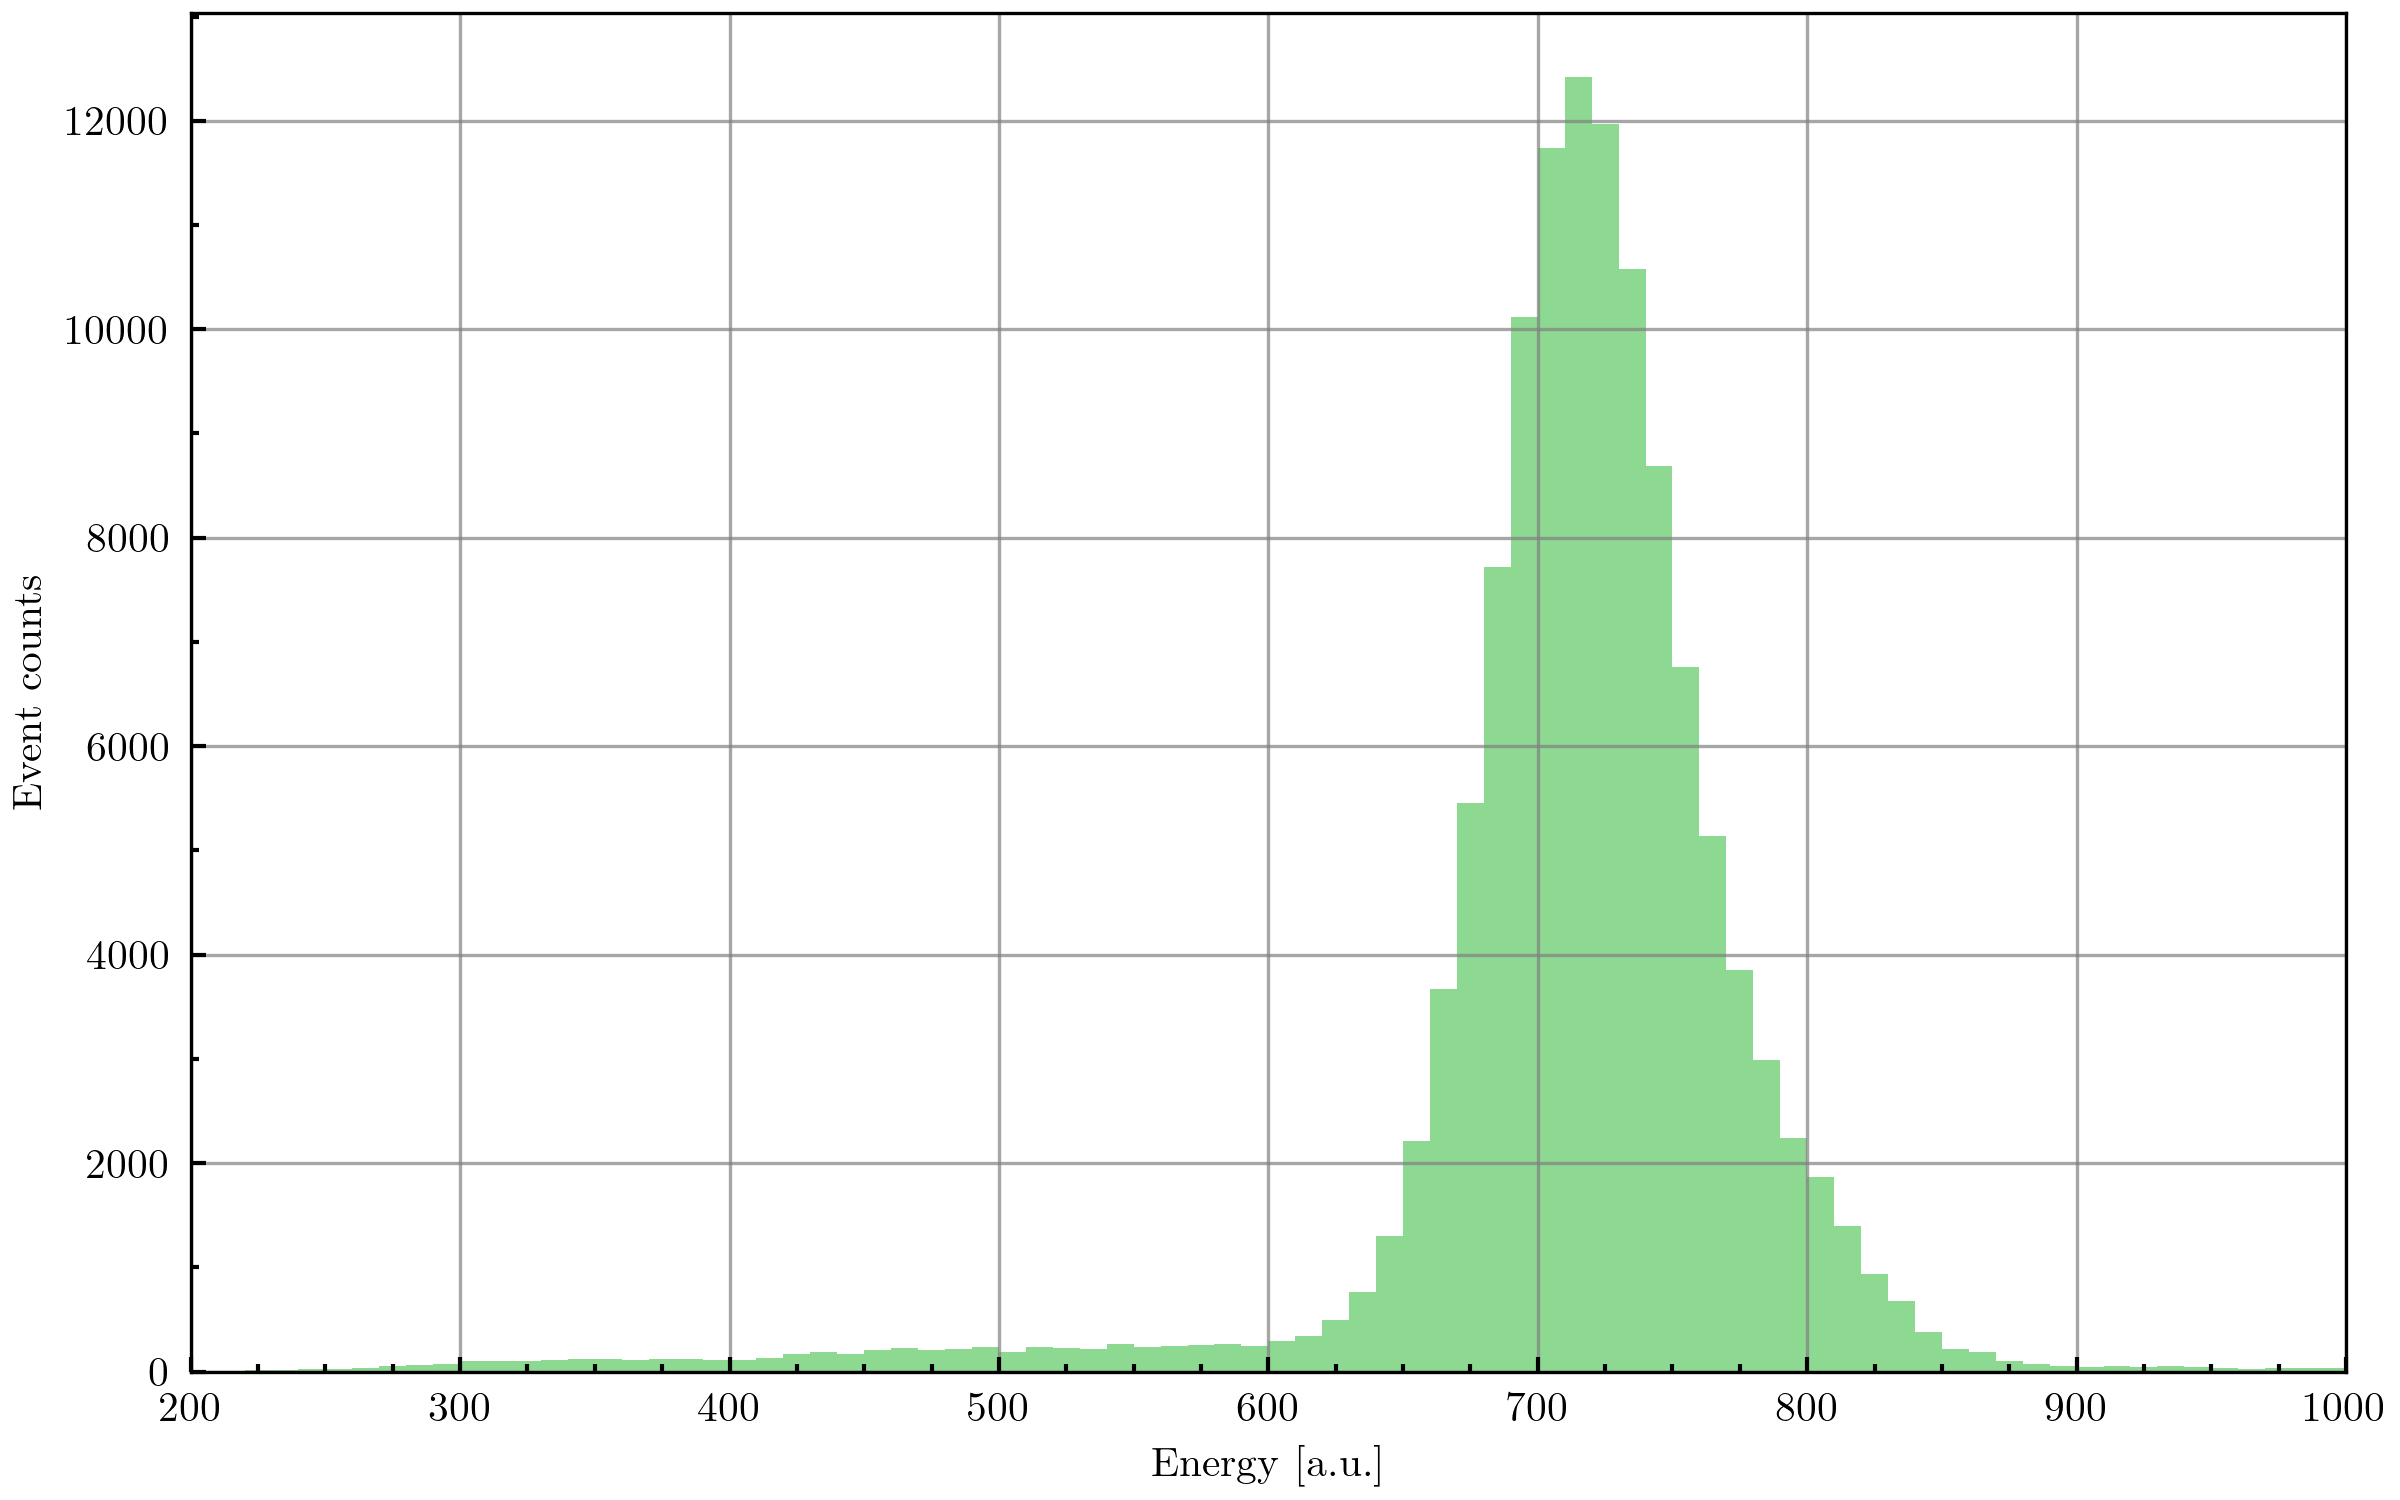
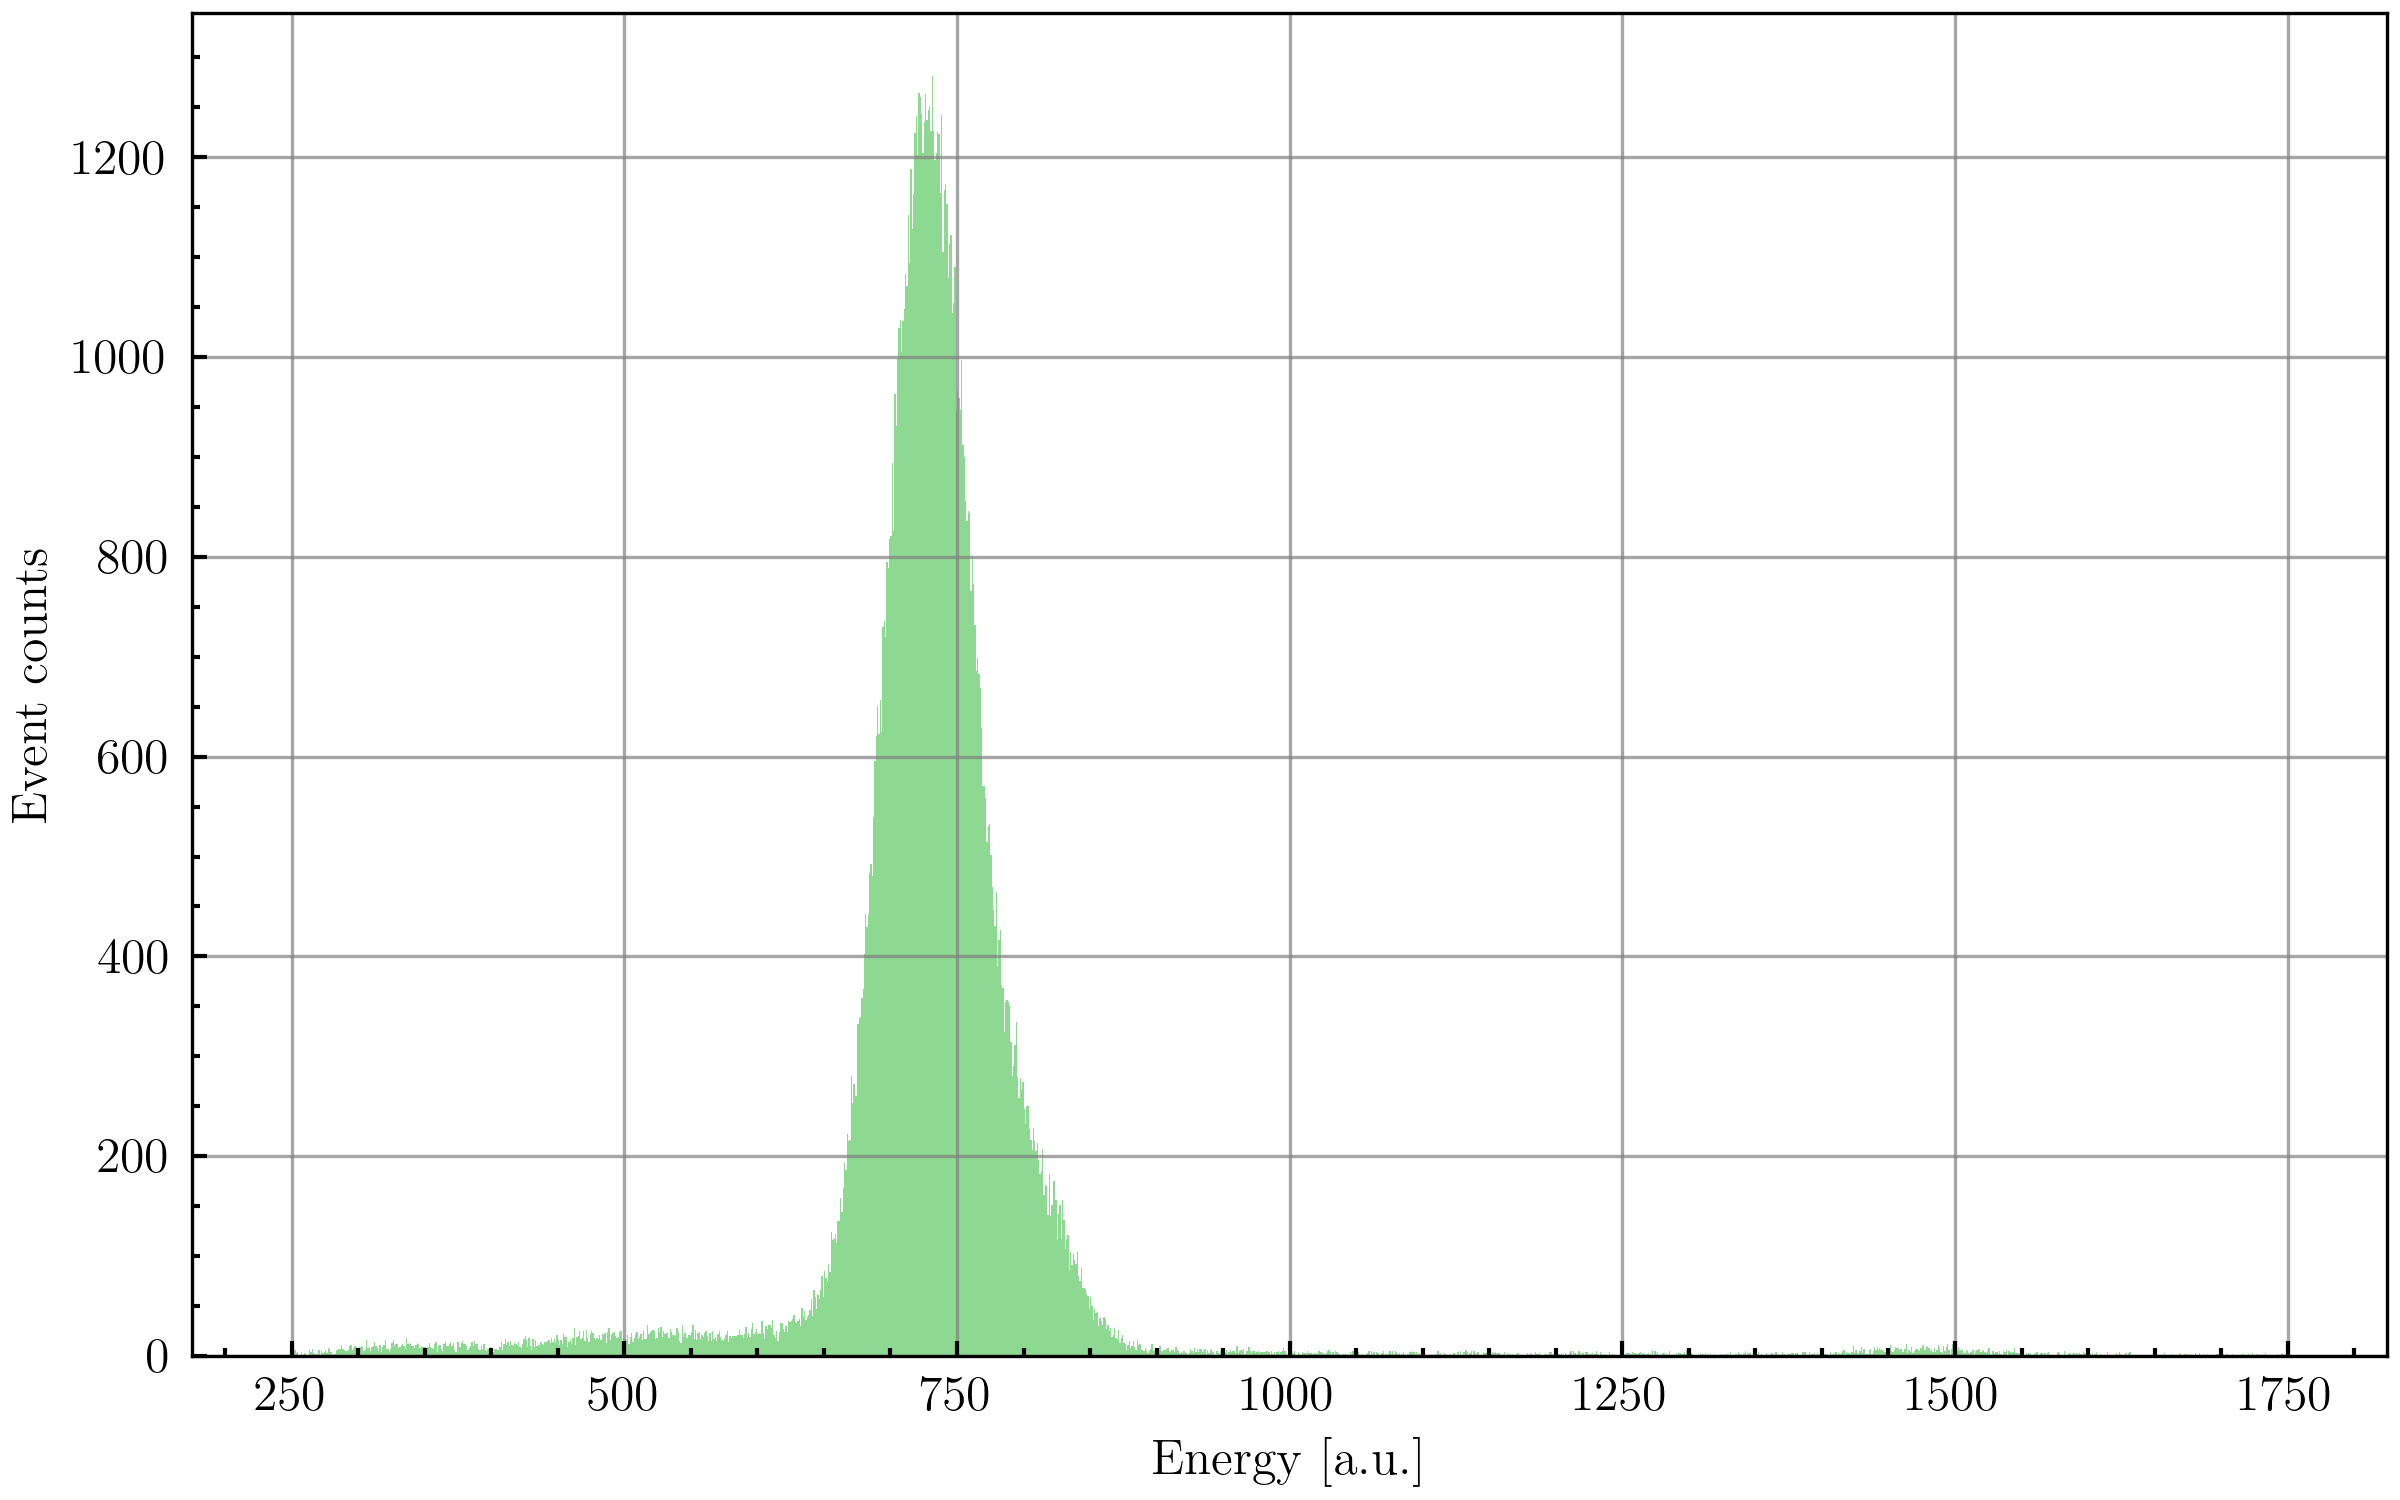
Polezero extention: histograms

diff --git a/Scripts/poleZero.py b/Scripts/poleZero.py
@@ -5,6 +5,9 @@ from tqdm import tqdm
 import numpy as np
 from scipy.signal import lfilter
 
+from lmfit.models import GaussianModel
+from scipy.stats import linregress
+
 import matplotlib.pyplot as plt
 from matplotlib.colors import Normalize
 from matplotlib.ticker import MultipleLocator
@@ -34,8 +37,8 @@ alpha = np.exp(-1 / (tau * fs))
 a_coeff = [1,-1] # denominator coefficient
 b_coeff = [1, -alpha] # numerator coefficient
 # -------------------------------------------------------------------------------------------------------
-"""
-data = readFile(files[0])  #  Take the zeroth channel
+
+data = readFile(sorted_files[0])  #  Take the zeroth channel
 waveforms = data['wave']
 offset = np.mean(waveforms[:, :500], axis=1)
 baseline_corrected_waveforms = waveforms - offset[:, np.newaxis]
@@ -49,64 +52,127 @@ first_500_avg = np.mean(pole_zero_corrected_waveforms[:, :500], axis=1)
 
 energy = last_500_avg - first_500_avg
 
+mask = energy > 1000
+print(f'Counts above 1000: {np.sum(mask)}')
+
 # =======================================================================================================
 # Plotting energy differences histogram: 1 Channel
 # =======================================================================================================
 
+plt.rcParams.update({'font.size': 12})
 fig, ax = plt.subplots(figsize=(8,5), constrained_layout=True)
-
-ax.hist(energy, bins=100, range=(0, 1000), color=plt.get_cmap('viridis')(0.75), alpha=0.70)
+ax.hist(energy, bins=1500, range=(250, 1750), color=plt.get_cmap('viridis')(0.75), alpha=0.70)
 ax.set_xlabel('Energy [a.u.]')
 ax.set_ylabel('Event counts')
 ax.grid(which='major', color='grey', alpha=0.7)
 
-ax.set_xlim(200, 1000)
+#ax.set_xlim(250, 1750)
+
 ax.tick_params(direction='in', which='both', width=1, pad=5)
-ax.xaxis.set_major_locator(MultipleLocator(100))
-ax.xaxis.set_minor_locator(MultipleLocator(25))
-ax.yaxis.set_major_locator(MultipleLocator(2000))
-ax.yaxis.set_minor_locator(MultipleLocator(1000))
+ax.xaxis.set_major_locator(MultipleLocator(250))
+ax.xaxis.set_minor_locator(MultipleLocator(50))
+ax.yaxis.set_major_locator(MultipleLocator(200))
+ax.yaxis.set_minor_locator(MultipleLocator(50))
 
 fig.savefig('Plots/Energy_distribution_uncal.png', dpi=300)
 plt.show()
-"""
+
 # =======================================================================================================
-# Plotting energy differences histogram: 1 Channel
+# Plotting energy differences histogram: All Channels
 # =======================================================================================================
 
+plt.rcParams.update({'font.size': 12})
 fig, ax = plt.subplots(figsize=(8,5), constrained_layout=True)
 
 ax.set_xlabel('Energy [a.u.]')
 ax.set_ylabel('Event counts')
 ax.grid(which='major', color='grey', alpha=0.7)
 # -------------------------------------------------------------------------------------------------------
-ax.set_xlim(300, 1000)
-ax.tick_params(direction='in', which='both', width=1, pad=5)
-ax.xaxis.set_major_locator(MultipleLocator(100))
-ax.xaxis.set_minor_locator(MultipleLocator(25))
-ax.yaxis.set_major_locator(MultipleLocator(2000))
-ax.yaxis.set_minor_locator(MultipleLocator(1000))
+ax.set_xlim(1300, 1650)
+ax.tick_params(direction='in', which='both', top=True, right=True, width=1, pad=5)
+ax.xaxis.set_major_locator(MultipleLocator(50))
+ax.xaxis.set_minor_locator(MultipleLocator(10))
+ax.yaxis.set_major_locator(MultipleLocator(500))
+ax.yaxis.set_minor_locator(MultipleLocator(100))
 # -------------------------------------------------------------------------------------------------------
-num_colors = len(files)
+num_colors = len(sorted_files)
 viridis = cm.get_cmap('viridis', num_colors)
 norm = Normalize(vmin=0, vmax=num_colors - 1)
 # -------------------------------------------------------------------------------------------------------
 
-for idx1, filename in enumerate(tqdm(files, desc='Plotting histograms', unit="%", unit_scale=True)):
-    data = readFile(files[idx1])
-    waveforms = data['wave']
-    offset = np.mean(waveforms[:, :500], axis=1)
-    baseline_corrected_waveforms = waveforms - offset[:, np.newaxis]
-
-    pole_zero_corrected_waveforms = np.zeros_like(baseline_corrected_waveforms)
-    for idx2, waveform in enumerate(baseline_corrected_waveforms):
-        pole_zero_corrected_waveforms[idx2] = lfilter(b_coeff, a_coeff, waveform)
-
-    last_500_avg = np.mean(pole_zero_corrected_waveforms[:, -500:], axis=1)
-    first_500_avg = np.mean(pole_zero_corrected_waveforms[:, :500], axis=1)
-    energy = last_500_avg - first_500_avg
+for idx1, filename in enumerate(tqdm(sorted_files, desc='Plotting histograms', unit="%", unit_scale=True)):
+    data = readFile(filename)
+    energy = data['energy']
     # ---------------------------------------------------------------------------------------------------
-    ax.hist(energy, bins=100, range=(0, 1000), color=viridis(norm(idx1)), alpha=0.70)
-    
-fig.savefig('Plots/E_distribution_uncal_mult.png', dpi=300)
+    ax.hist(energy, bins=350, range=(1300, 1650), color=viridis(norm(idx1)), alpha=0.70, label=f'Channel No. {idx1}')
+
+ax.legend(loc='upper left')    
+fig.savefig('Plots/E_distribution_mult.png', dpi=300)
+
+# =======================================================================================================
+# Fitting the data
+# =======================================================================================================
+
+plt.rcParams.update({'font.size': 12})
+fig, ax = plt.subplots(figsize=(8,5), constrained_layout=True)
+# -------------------------------------------------------------------------------------------------------
+num_colors = len(sorted_files)
+viridis = cm.get_cmap('viridis', num_colors)
+norm = Normalize(vmin=0, vmax=num_colors - 1)
+# -------------------------------------------------------------------------------------------------------
+data = readFile(sorted_files[0])
+energy = data['energy']
+
+gmodel_alpha = GaussianModel(prefix='alpha_')
+gmodel_beta = GaussianModel(prefix='beta_')
+# -------------------------------------------------------------------------------------------------------
+initial_guesses_alpha = {'alpha_center': 1475, 'alpha_amplitude': 3000, 'alpha_sigma': 20}
+counts_alpha, bin_edges_alpha, _ = ax.hist(energy, bins=200, range=(1325, 1525),
+                                           color=plt.get_cmap('inferno')(0.85), alpha=0.7, label=f'Channel No. 0')
+bin_centers_alpha = (bin_edges_alpha[:-1] + bin_edges_alpha[1:]) / 2
+result_alpha = gmodel_alpha.fit(counts_alpha, x=bin_centers_alpha, method='leastsq', **initial_guesses_alpha)
+# -------------------------------------------------------------------------------------------------------
+initial_guesses_beta = {'beta_center': 1550, 'beta_amplitude': 500, 'beta_sigma': 20}
+counts_beta, bin_edges_beta, _ = ax.hist(energy, bins=200, range=(1525, 1725),
+                                         color=plt.get_cmap('plasma')(0.85), alpha=0.7)
+bin_centers_beta = (bin_edges_beta[:-1] + bin_edges_beta[1:]) / 2
+result_beta = gmodel_beta.fit(counts_beta, x=bin_centers_beta, method='leastsq', **initial_guesses_beta)
+# -------------------------------------------------------------------------------------------------------
+alpha_center = result_alpha.params['alpha_center'].value
+alpha_amplitude = result_alpha.params['alpha_amplitude'].value
+beta_center = result_beta.params['beta_center'].value
+beta_amplitude = result_beta.params['beta_amplitude'].value
+mean_alpha_lsb = alpha_center
+mean_beta_lsb = beta_center
+# -------------------------------------------------------------------------------------------------------
+ax.plot(bin_centers_alpha, result_alpha.best_fit, linestyle='--', lw=1.5, label=r'Mn-$K_{\alpha}$ fit',
+        color=plt.get_cmap('plasma')(0.30))
+ax.plot(bin_centers_beta, result_beta.best_fit, linestyle='--', lw=1.5, label=r'Mn-$K_{\beta}$ fit',
+        color=plt.get_cmap('plasma')(0.60))
+ax.axvline(x=mean_alpha_lsb, label=fr'Mean energy $E_{{K_{{\alpha}}}}$ {mean_alpha_lsb:.2f} a.u.',
+           ls='dashdot', lw=1, color=plt.get_cmap('viridis')(0.15))
+ax.axvline(x=mean_beta_lsb, label=fr'Mean energy $E_{{K_{{\beta}}}}$ {mean_beta_lsb:.2f} a.u.',
+           ls='dashdot', lw=1, color=plt.get_cmap('viridis')(0.15))
+# -------------------------------------------------------------------------------------------------------
+ax.set_xlim(1375, 1600)
+ax.set_ylim(0, 3500)
+ax.tick_params(direction='in', which='both', top=True, right=True, width=1, pad=5)
+ax.xaxis.set_major_locator(MultipleLocator(50))
+ax.xaxis.set_minor_locator(MultipleLocator(5))
+ax.yaxis.set_major_locator(MultipleLocator(500))
+ax.yaxis.set_minor_locator(MultipleLocator(100))
+# -------------------------------------------------------------------------------------------------------
+ax.set_xlabel('Energy [a.u]')
+ax.set_ylabel('Event counts')
+
+ax.legend()
+fig.savefig('Plots/E_distribution_fit.png', dpi=300)
 plt.show()
+# -------------------------------------------------------------------------------------------------------
+
+E_alpha = 5.90  # keV
+E_beta = 6.49   # keV
+# Linear regression to relate measured and true energies
+slope, intercept, _, _, _ = linregress([mean_alpha_lsb, mean_beta_lsb], [E_alpha, E_beta])
+energy_kev = slope * energy + intercept
+print(energy_kev)
